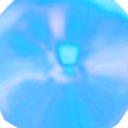
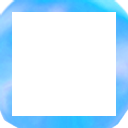
Create floating window.

diff --git a/game/ui/floating_window.py b/game/ui/floating_window.py
@@ -1,0 +1,45 @@
+from kivy.lang import Builder
+from kivy.properties import ObjectProperty, StringProperty
+from kivy.uix.behaviors import DragBehavior
+from kivy.uix.widget import Widget
+
+
+# Classes
+# =======
+class FloatingWindow(DragBehavior, Widget):
+    title_bar = ObjectProperty(None)
+    title = StringProperty()
+    background_panel = StringProperty()
+    background_border = StringProperty()
+    background_title = StringProperty()
+    background_close_normal = StringProperty()
+    background_close_down = StringProperty()
+
+    def on_touch_down(self, touch):
+        # Call base method
+        super().on_touch_down(touch)
+
+        # Check if the touch was inside this widget
+        if self.collide_point(touch.x, touch.y):
+            # Bring this widget to the top of the z-order by removing it from its parent and adding it back to
+            # its original parent.
+            parent = self.parent
+
+            if parent is not None:
+                self.parent.remove_widget(self)
+                parent.add_widget(self)
+            
+            # The event has been handled, so prevent further processing of it.
+            return True
+        
+        else:
+            # Continue processing the event
+            return False
+        
+    def on_close(self):
+        # Remove this widget from its parent. If you need to reopen it later, be sure to keep a reference
+        # to prevent it from being garbage collected.
+        self.parent.remove_widget(self)
+
+
+Builder.load_file("ui/floating_window.kv")

diff --git a/game/test_theme.py b/game/test_theme.py
@@ -1,12 +1,38 @@
 from kivy.app import App
+from kivy.properties import ObjectProperty
+from kivy.uix.widget import Widget
 
-from ui.theme import GameTabbedPanel
+from ui.theme import FloatingWindow
 
 
 # Classes
 # =======
-class MainScreen(GameTabbedPanel):
+class Window1(FloatingWindow):
     pass
+
+
+class Window2(FloatingWindow):
+    pass
+
+
+class MainScreen(Widget):
+    window1 = ObjectProperty(None)
+    window2 = ObjectProperty(None)
+
+    def __init__(self, *args, **kwargs):
+        # Call the base constructor
+        super().__init__(*args, **kwargs)
+
+        # Create windows
+        self.window1 = Window1(pos=(0, 20))
+        self.window2 = Window2(pos=(20, 0))
+
+    def show_windows(self):
+        if self.window1 not in self.children:
+            self.add_widget(self.window1)
+
+        if self.window2 not in self.children:
+            self.add_widget(self.window2)
 
 
 class TestTheme(App):

diff --git a/game/ui/theme.py b/game/ui/theme.py
@@ -9,6 +9,7 @@ from kivy.uix.tabbedpanel import TabbedPanel
 from kivy.uix.textinput import TextInput
 from kivy.uix.togglebutton import ToggleButton
 
+from ui.floating_window import FloatingWindow
 from ui.option_button import OptionButton
 from ui.textured_progress import TexturedProgress
 
@@ -20,6 +21,10 @@ class GameButton(Button):
 
 
 class GameCheckBox(CheckBox):
+    pass
+
+
+class GameFloatingWindow(FloatingWindow):
     pass
 
 
